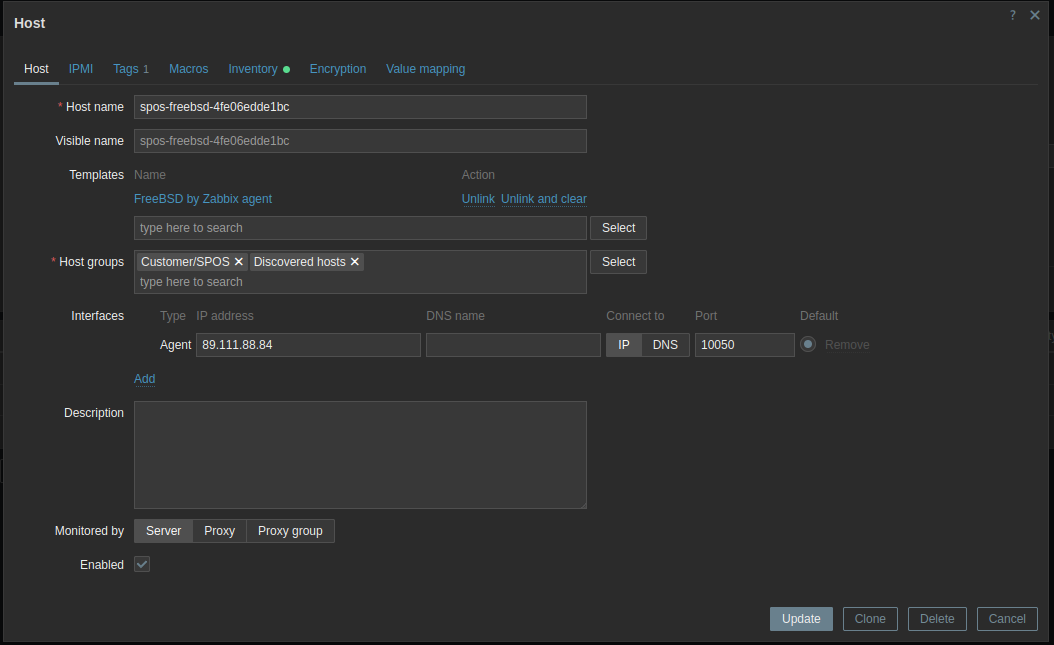
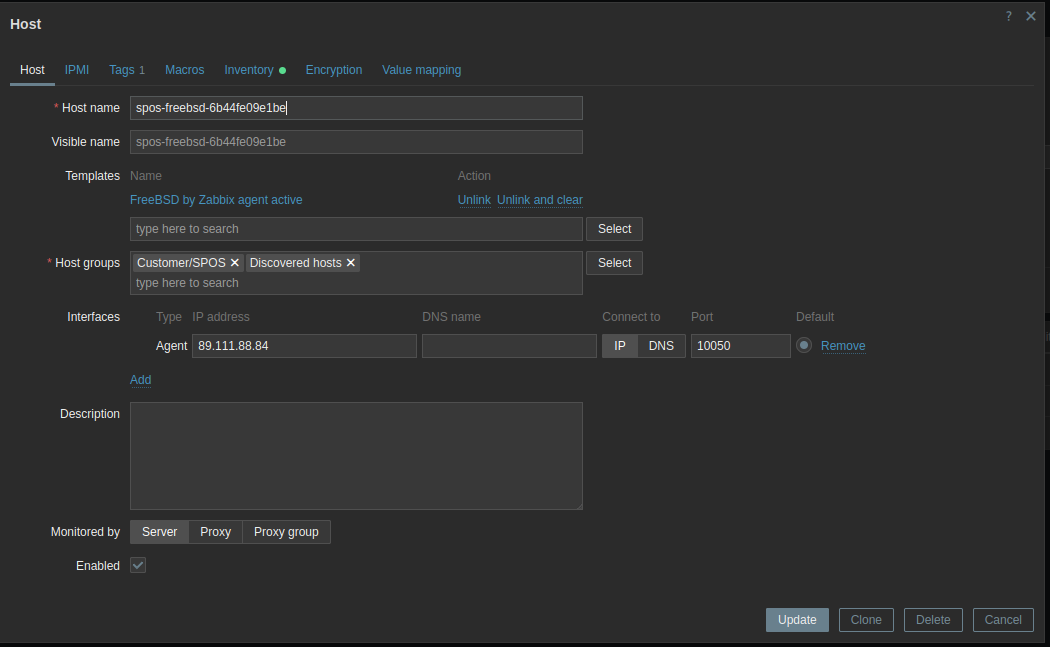
Fix README + Image

diff --git a/README.md b/README.md
@@ -31,11 +31,15 @@ nc -z -w 5 enceladus.pfsense.cz 10051
 sockstat -4 -l | grep 10050
 ```
 
-V Zabbixu vyhledejte název z `spos-hostname`. Na dodaném snímku je host vidět ve skupinách `Customer/SPOS` a `Discovered hosts` se šablonou `FreeBSD by Zabbix agent`:
+V Zabbixu je registrovaný host `spos-freebsd-6b44fe09e1be` ve skupinách `Customer/SPOS` a `Discovered hosts` se šablonou `FreeBSD by Zabbix agent active`:
 
 ![Host FreeBSD v Zabbixu se skupinami a šablonou](Images/FBSD-ZBX8-Agent-reg.png)
 
-Snímek neukazuje hodnotu štítku ani nejnovější data. Ty je ještě potřeba ověřit a případný další snímek doplnit do `Images/`. Protože je VM za NAT, pro sběr dat je vhodná šablona s aktivními kontrolami; pasivní kontroly vyžadují dosažitelné rozhraní VM ze serveru.
+Dashboard téhož hosta ukazuje naměřené hodnoty zatížení a využití CPU, paměti, swapu a souborových systémů za posledních pět minut. Tím je doložený příjem dat ze šablony s aktivními kontrolami:
+
+![Naměřené hodnoty hosta FreeBSD v Zabbixu](Images/FBSD-ZBX8-Agent-reg-Data.png)
+
+Na snímcích není vidět hodnota přiřazeného štítku; tu lze ověřit na záložce `Tags` v detailu hosta.
 
 ## Soubory
 
@@ -44,6 +48,7 @@ Snímek neukazuje hodnotu štítku ani nejnovější data. Ty je ještě potřeb
 - `configure-zabbix7-agent.sh`: stálé jméno hosta, nastavení agenta a spuštění služby.
 - `Images/freebsd-zabbix-hero.png`: tematická ilustrace, nikoli důkaz monitorování.
 - `Images/FBSD-ZBX8-Agent-reg.png`: dodaný snímek hosta z webového rozhraní Zabbixu.
+- `Images/FBSD-ZBX8-Agent-reg-Data.png`: dashboard s naměřenými daty téhož hosta.
 
 ## Zdroje
 
